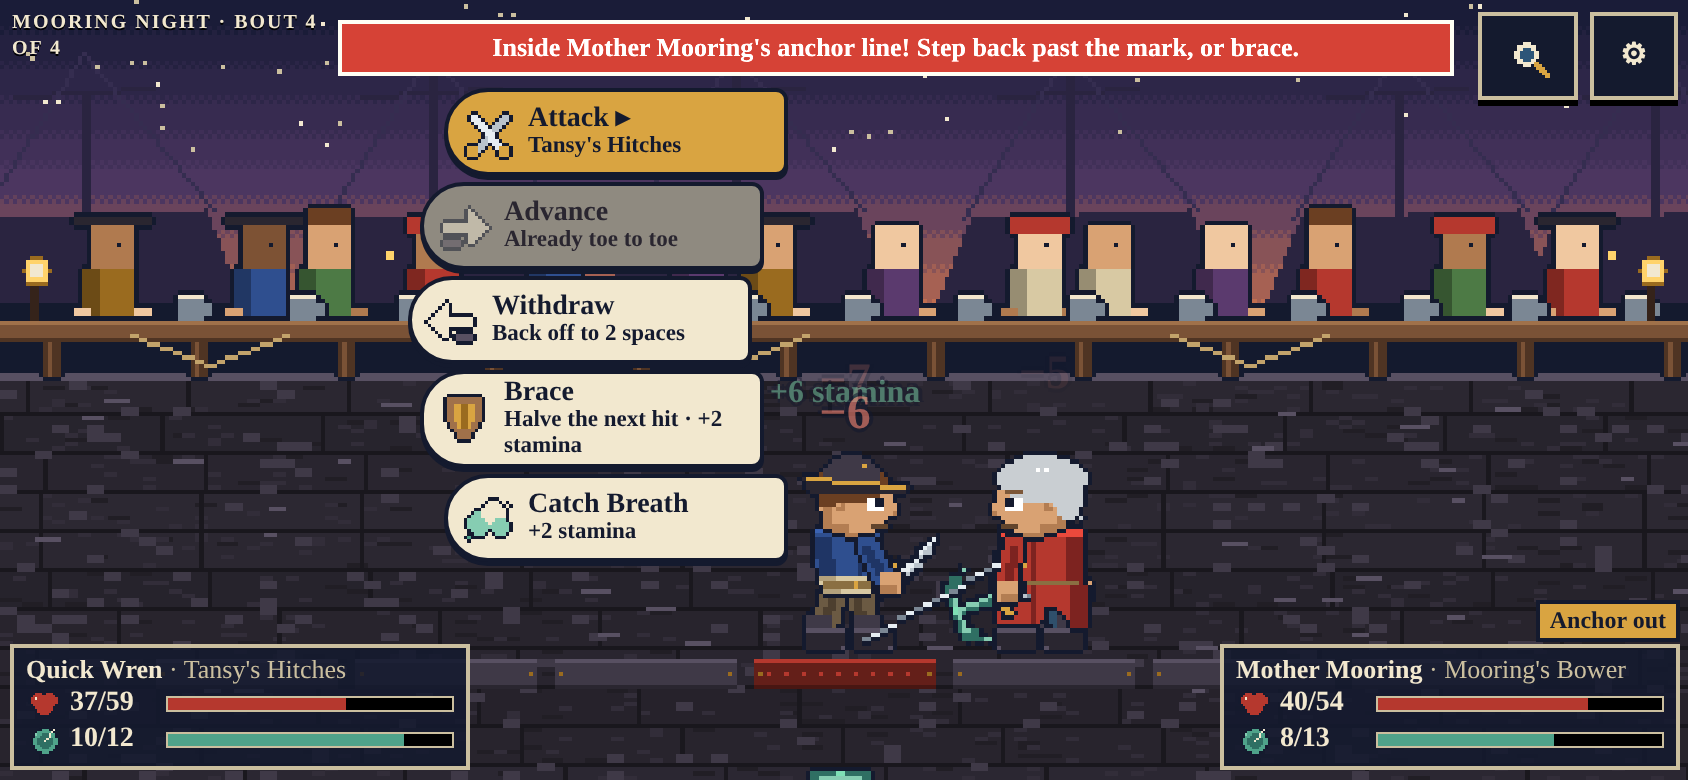
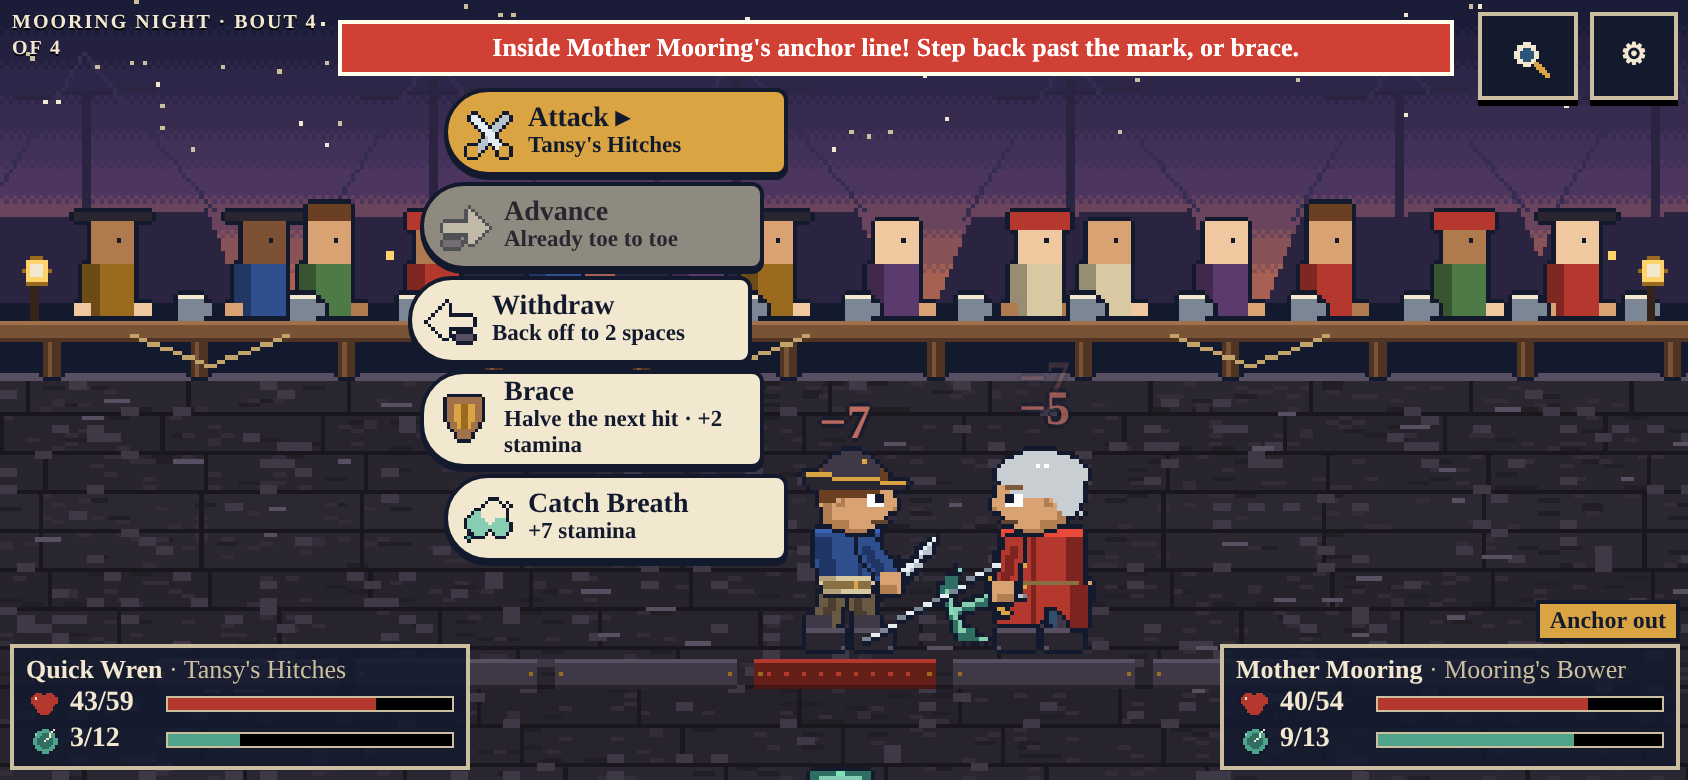
Pass 2: difficulty nudge from first progression runs, anchor deck sprite, screenshots
Claude-Session: https://claude.ai/code/session_01VLaJWGa3ec4rLoDWcVow1U

diff --git a/src/core/data.ts b/src/core/data.ts
@@ -218,14 +218,14 @@ export const NPCS: Record<string, NpcDef> = {
   pistol_pip: { id: 'pistol_pip', name: 'Pistol Pip', epithet: 'spends his opening shot early', ai: 'powder', weapon: 'powder_promise', attrs: A(1, 3, 2, 2), hp: 24, acc: -4, look: { skin: 0, hair: 3, hairColor: 2, beard: 0, shirt: 2, trousers: 2, hat: 'tricorn' }, intro: 'I only need the one ball. Usually.', onWin: 'One ball. Told you.', onLose: 'I should have waited. I never wait.' },
   old_moll: { id: 'old_moll', name: 'Old Moll Towline', epithet: 'champion of the Tar Bucket Cup', ai: 'moll', weapon: 'towline', attrs: A(2, 2, 3, 2), hp: 34, look: { skin: 2, hair: 4, hairColor: 4, beard: 0, shirt: 0, trousers: 3, coat: 'short', coatColor: 1, broad: true, hat: 'bandana' }, intro: 'Forty years I hauled that ferry. You are lighter than a ferry.', onWin: 'Back on the far bank with you.', onLose: 'Well. The chain has a new hand. Mind it. It pulls both ways.' },
   splint_jenny: { id: 'splint_jenny', name: 'Splint Jenny', epithet: 'two knives, no patience', ai: 'twin', weapon: 'fishwifes_pair', attrs: A(2, 3, 2, 2), hp: 28, look: { skin: 0, hair: 3, hairColor: 2, beard: 0, shirt: 1, trousers: 1, hat: 'bandana' }, intro: 'One for the stave, one for the hoop.', onWin: 'Kindling.', onLose: 'Both of them missed? Both?' },
-  cooper_gantry: { id: 'cooper_gantry', name: 'Cooper Gantry', epithet: 'champion of Cooper\'s Purse', ai: 'mauler', weapon: 'coopers_persuader', attrs: A(5, 2, 4, 1), hp: 42, look: { skin: 1, hair: 0, hairColor: 0, beard: 2, shirt: 0, trousers: 0, coat: 'vest', coatColor: 5, broad: true }, intro: 'Every barrel thinks it will hold. Then I fit the hoop.', onWin: 'Tight as a drum. Next.', onLose: 'Sprung my own hoop. Take the driver. It is honest work.' },
+  cooper_gantry: { id: 'cooper_gantry', name: 'Cooper Gantry', epithet: 'champion of Cooper\'s Purse', ai: 'mauler', weapon: 'coopers_persuader', attrs: A(5, 2, 4, 1), hp: 46, look: { skin: 1, hair: 0, hairColor: 0, beard: 2, shirt: 0, trousers: 0, coat: 'vest', coatColor: 5, broad: true }, intro: 'Every barrel thinks it will hold. Then I fit the hoop.', onWin: 'Tight as a drum. Next.', onLose: 'Sprung my own hoop. Take the driver. It is honest work.' },
   hemp_odran: { id: 'hemp_odran', name: 'Hemp Odran', epithet: 'throws first, thinks on the reel', ai: 'mooring', weapon: 'kedge_chain', attrs: A(3, 2, 4, 1), hp: 40, look: { skin: 2, hair: 2, hairColor: 1, beard: 1, shirt: 3, trousers: 3, hat: 'straw' }, intro: 'Stand there. No, there. Where the kedge lands.', onWin: 'Fouled and hauled.', onLose: 'Dragged my own anchor.' },
   tallow_wick: { id: 'tallow_wick', name: 'Tallow Wick', epithet: 'never fires first', ai: 'powder', weapon: 'powder_promise', off: 'cuff', attrs: A(2, 5, 3, 2), hp: 40, look: { skin: 4, hair: 1, hairColor: 4, beard: 1, shirt: 5, trousers: 2, hat: 'tricorn', coat: 'short', coatColor: 4 }, intro: 'A candle burns longest if nobody blows.', onWin: 'Snuffed.', onLose: 'Burned at both ends, then.' },
   tansy: { id: 'tansy', name: 'Twin-Knot Tansy', epithet: 'champion of the Ropewalk Stakes', ai: 'twin', weapon: 'tansys_hitches', attrs: A(3, 5, 4, 3), hp: 52, look: { skin: 3, hair: 3, hairColor: 3, beard: 0, shirt: 2, trousers: 1, coat: 'vest', coatColor: 1 }, intro: 'Forty yards of rope walk, backwards, every day. You will not out-step me.', onWin: 'Whipped and seized.', onLose: 'Cut my own lashing. Keep the knives. Keep them crossed.' },
   bosun_crake: { id: 'bosun_crake', name: 'Bosun Crake', epithet: 'breaks guards for the watch', ai: 'mauler', weapon: 'capstan_bar', attrs: A(5, 2, 5, 1), hp: 54, look: { skin: 1, hair: 1, hairColor: 4, beard: 2, shirt: 5, trousers: 1, hat: 'knit', broad: true }, intro: 'All hands to the bar. That includes yours.', onWin: 'Turn him out of his hammock.', onLose: 'Belay that. Belay all of it.' },
   ferry_kate: { id: 'ferry_kate', name: 'Ferry Kate', epithet: 'Old Moll\'s niece, same chain', ai: 'moll', weapon: 'towline', attrs: A(4, 4, 5, 3), hp: 56, look: { skin: 2, hair: 2, hairColor: 0, beard: 0, shirt: 0, trousers: 3, coat: 'short', coatColor: 2, hat: 'straw' }, intro: 'Aunt Moll says you braced. Brace this.', onWin: 'Fare paid.', onLose: 'She said you would do that.' },
   deacon_shoal: { id: 'deacon_shoal', name: 'Deacon Shoal', epithet: 'keeps Long Tom between you', ai: 'guard', weapon: 'long_tom', attrs: A(4, 5, 4, 2), hp: 54, look: { skin: 4, hair: 0, hairColor: 0, beard: 0, shirt: 5, trousers: 1, coat: 'long', coatColor: 5, hat: 'tricorn' }, intro: 'Keep your distance, child. I shall keep mine.', onWin: 'Go in peace. Go quickly.', onLose: 'You came inside the rail. Bold.' },
-  mother_mooring: { id: 'mother_mooring', name: 'Mother Mooring', epithet: 'headliner of the Tarwater Docks', ai: 'mooring', weapon: 'moorings_bower', soak: 1, attrs: A(4, 3, 5, 2), hp: 54, look: { skin: 1, hair: 4, hairColor: 4, beard: 0, shirt: 4, trousers: 3, coat: 'long', coatColor: 1, broad: true }, intro: 'Everything in this harbour is tied to something, dear. You are tied to me.', onWin: 'Made fast. Coil her down.', onLose: 'Slipped my cable. Well. Take the bower. Mind where you leave it.' },
+  mother_mooring: { id: 'mother_mooring', name: 'Mother Mooring', epithet: 'headliner of the Tarwater Docks', ai: 'mooring', weapon: 'moorings_bower', soak: 1, attrs: A(4, 3, 5, 2), hp: 60, look: { skin: 1, hair: 4, hairColor: 4, beard: 0, shirt: 4, trousers: 3, coat: 'long', coatColor: 1, broad: true }, intro: 'Everything in this harbour is tied to something, dear. You are tied to me.', onWin: 'Made fast. Coil her down.', onLose: 'Slipped my cable. Well. Take the bower. Mind where you leave it.' },
   barrel_bess: { id: 'barrel_bess', name: 'Barrel Bess', epithet: 'first stave of Cooper\'s Purse', ai: 'duelist', weapon: 'widows_knife', attrs: A(3, 2, 3, 1), hp: 30, look: { skin: 3, hair: 1, hairColor: 0, beard: 0, shirt: 4, trousers: 0, coat: 'vest', coatColor: 2, broad: true }, intro: 'Cooper says a barrel is only as good as its first stave. That is me.', onWin: 'Roll this one back down the pier.', onLose: 'Sprung. Fair enough.' },
 };
 

diff --git a/src/scenes/battle.ts b/src/scenes/battle.ts
@@ -53,7 +53,7 @@ export class BattleScene extends Phaser.Scene {
     this.fx = this.add.graphics();
     this.A = [new Actor(this, lookOf(S), this.view.f[0].weapon, false, this.laneX(this.view.f[0].pos), GY), new Actor(this, foe.look, this.view.f[1].weapon, true, this.laneX(this.view.f[1].pos), GY)];
     this.A[0].setWeapon(this.view.f[0].weapon, offDraw(S, this.view.f[0].weapon));
-    this.anchors = [0, 1].map((i) => { const ws = weaponSprite(WEAPONS[this.view.f[i].weapon].sprite); return this.add.image(0, GY + 3, tex(this, 'anchor' + i, ws.pix)).setOrigin(ws.gx / ws.pix.w, ws.gy / ws.pix.h).setAngle(i === 0 ? 90 : 90).setFlipX(i === 1).setVisible(false).setDepth(1); });
+    this.anchors = [0, 1].map((i) => { const ws = weaponSprite(WEAPONS[this.view.f[i].weapon].sprite); return this.add.image(0, GY + 3, tex(this, 'anchor' + i, ws.pix)).setOrigin(0.5, 0.5).setFlipX(i === 1).setVisible(false).setDepth(3); });
     this.A[0].img.setDepth(2); this.A[1].img.setDepth(1); this.fx.setDepth(3);
 
     const hud = (side: string) => h('div.hud.' + side, null);
@@ -137,7 +137,7 @@ export class BattleScene extends Phaser.Scene {
       this.anchors[i]?.setVisible(live && f.anchor !== null);
       if (live && f.anchor !== null) {
         const ax = this.laneX(f.anchor);
-        this.anchors[i].setPosition(ax, GY - 2);
+        this.anchors[i].setPosition(ax - dir * 6, GY - 5);
         chain(Math.round(a.x + dir * 12), GY - 20, ax - dir * 4, GY - 3);
       }
       if (!live || f.pending !== 'cast') continue;

diff --git a/src/core/game.ts b/src/core/game.ts
@@ -131,13 +131,13 @@ export function rollOffer(s: Save, avoid?: string): void {
   const pool = ARCHETYPES.filter((a) => !a.after || s.titles.includes(a.after));
   let arch = pickOf(s, pool);
   if (avoid && arch.id === avoid) arch = pool[(pool.indexOf(arch) + 1) % pool.length];
-  const up = Math.floor((s.level - 1) * 0.75);
+  const up = s.level - 1;
   const attrs = { ...arch.attrs };
   for (let i = 0; i < up; i++) attrs[(['might', 'finesse', 'grit', 'guile'] as Attr[])[(i + arch.names.length) % 4]]++;
   const look: Look = { skin: Math.floor(roll(s) * 5), hair: 1 + Math.floor(roll(s) * 4), hairColor: Math.floor(roll(s) * 5), beard: Math.floor(roll(s) * 3), shirt: Math.floor(roll(s) * 5), trousers: Math.floor(roll(s) * 4), ...arch.looks };
   s.offer = {
     arch: arch.id, name: pickOf(s, arch.names), epithet: arch.label, ai: arch.ai, weapon: arch.weapon, attrs,
-    hp: arch.hp + (s.level - 1) * 3, acc: arch.acc ?? 0, look, line: pickOf(s, arch.lines), purse: 11 + Math.floor(roll(s) * 3) + (s.level - 1) * 2,
+    hp: arch.hp + (s.level - 1) * 4, acc: arch.acc ?? 0, look, line: pickOf(s, arch.lines), purse: 11 + Math.floor(roll(s) * 3) + (s.level - 1) * 2,
   };
 }
 

diff --git a/src/style.css b/src/style.css
@@ -121,3 +121,4 @@ body.port .place { top:calc(var(--sy) + 58px); }
 body.land .caption.cue { white-space:normal; left:calc(var(--sx) + var(--sw) * .2); right:calc(100% - var(--sx) - var(--sw) * .86); font-size:13px; }
 .bubble { top:calc(var(--sy) + 42px + var(--sat)); }
 body.port .bubble { top:calc(var(--sy) + 50px); }
+body.land .fan { top:calc(var(--sy) + 52px + var(--sat)); }
